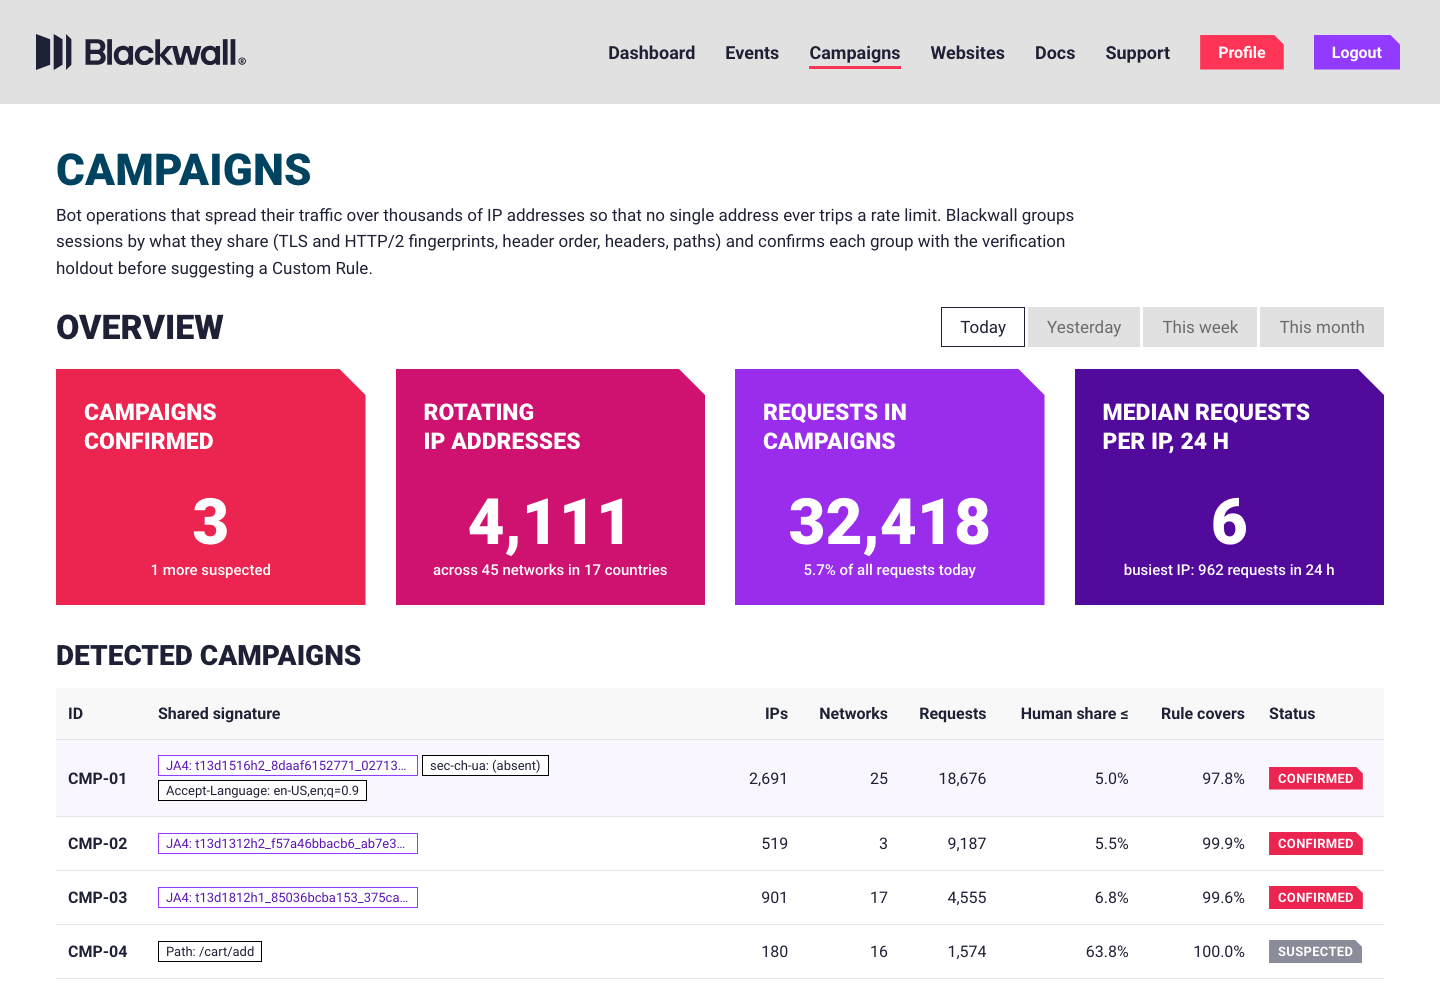
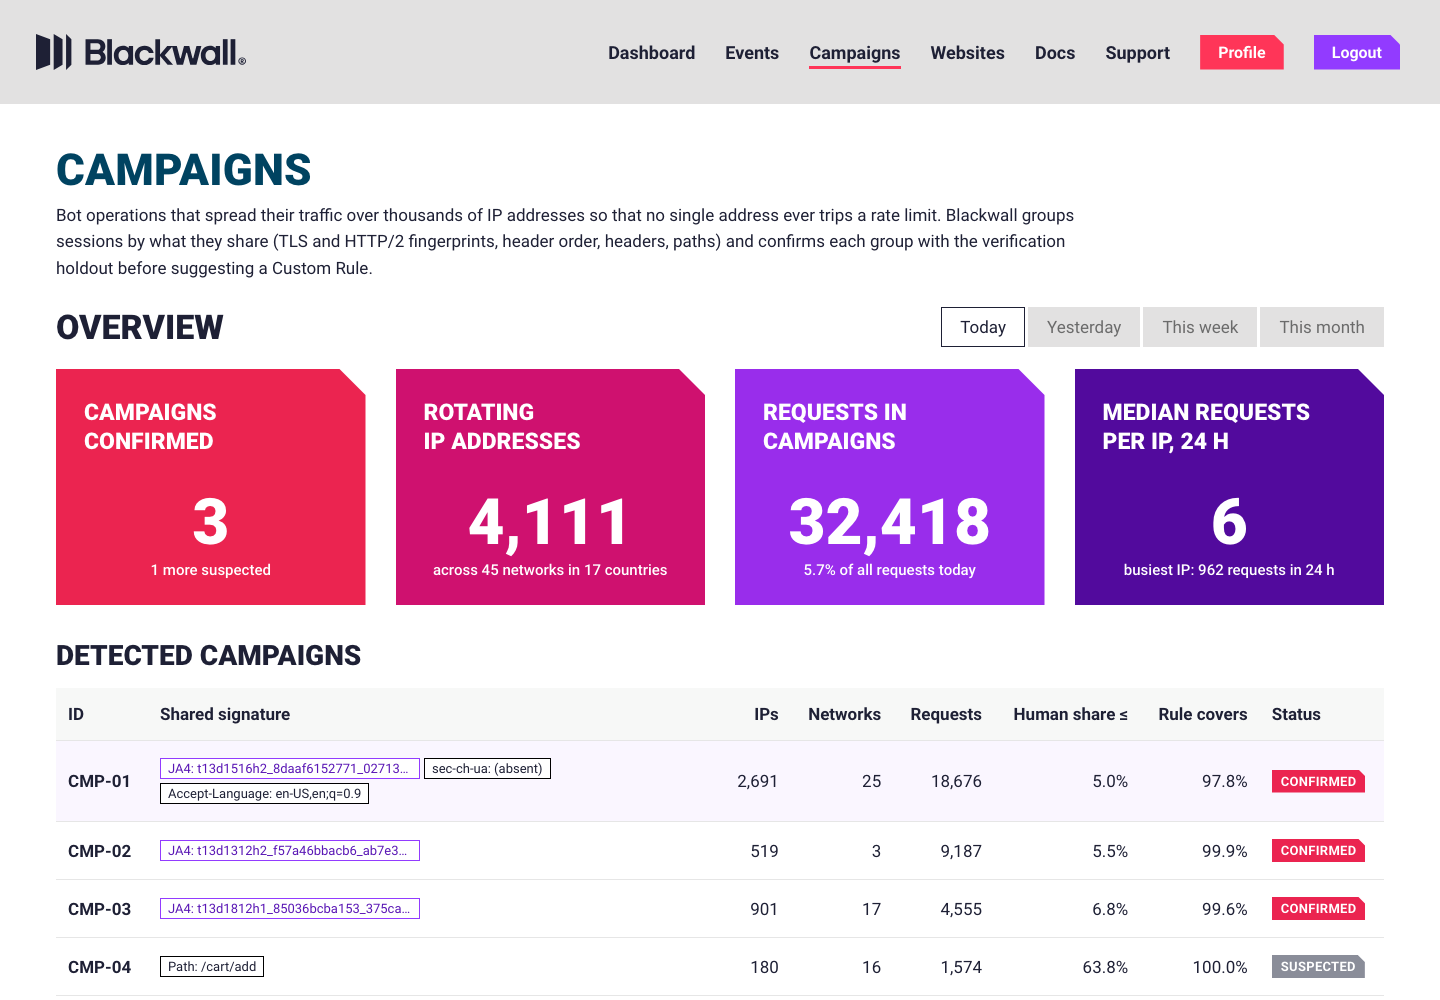
Fidelity pass: nav size, table density, id column

diff --git a/styles.css b/styles.css
@@ -64,9 +64,10 @@ h2.sec { font-size: 28px; margin: 34px 0 16px; }
 
 /* Table (Events table look) */
 .table-wrap { overflow-x: auto; }
-table.t { width: 100%; border-collapse: collapse; font-size: 16px; }
+table.t { width: 100%; border-collapse: collapse; font-size: 17px; }
 table.t th { background: var(--thead); text-align: left; font-weight: 700; padding: 16px 12px; border-bottom: 1px solid var(--line); white-space: nowrap; }
-table.t td { padding: 15px 12px; border-bottom: 1px solid var(--line); vertical-align: middle; }
+table.t td { padding: 17px 12px; border-bottom: 1px solid var(--line); vertical-align: middle; }
+table.t td:first-child { white-space: nowrap; }
 table.t td.num, table.t th.num { text-align: right; font-variant-numeric: tabular-nums; }
 table.t tr.row { cursor: pointer; }
 table.t tr.row:hover td, table.t tr.row.sel td { background: #faf6ff; }
@@ -165,8 +166,8 @@ code { font-family: ui-monospace, Menlo, monospace; font-size: 13px; }
 
 @media (max-width: 1400px) {
   main { padding: 30px 32px 20px; }
-  .mainnav { gap: 20px; }
-  .mainnav a, .mainnav button { font-size: 16px; }
+  .mainnav { gap: 22px; }
+  .mainnav a, .mainnav button { font-size: 17px; }
   .kpi .k { font-size: 19px; } .kpi .v { font-size: 52px; } .kpi { min-height: 200px; padding: 24px 22px 20px; }
   .kpis { gap: 20px; }
   table.t { font-size: 15px; }
